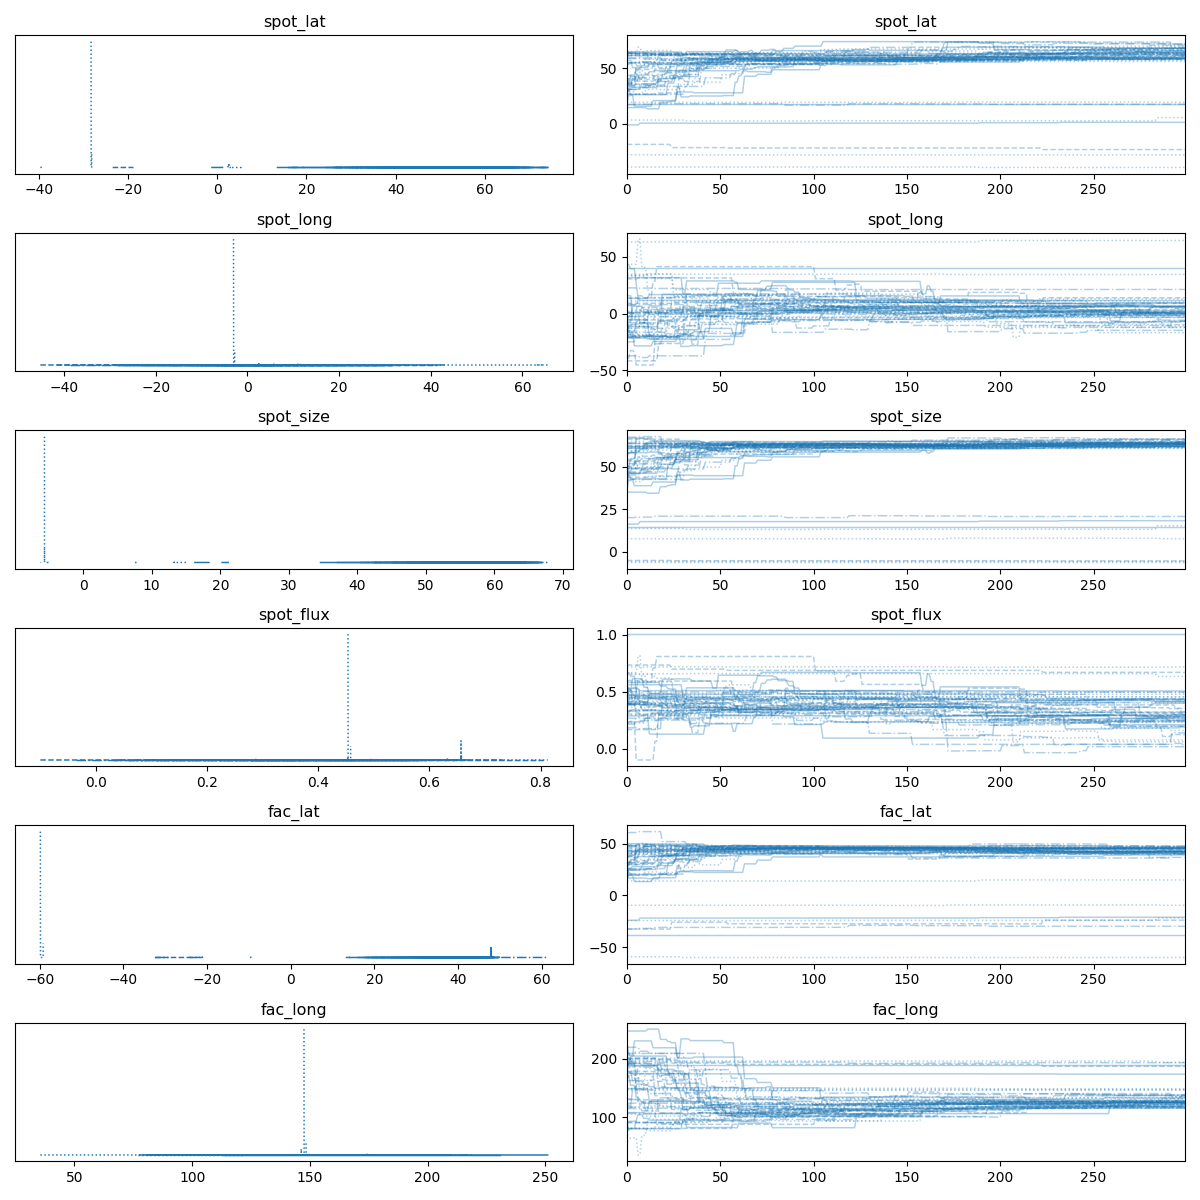
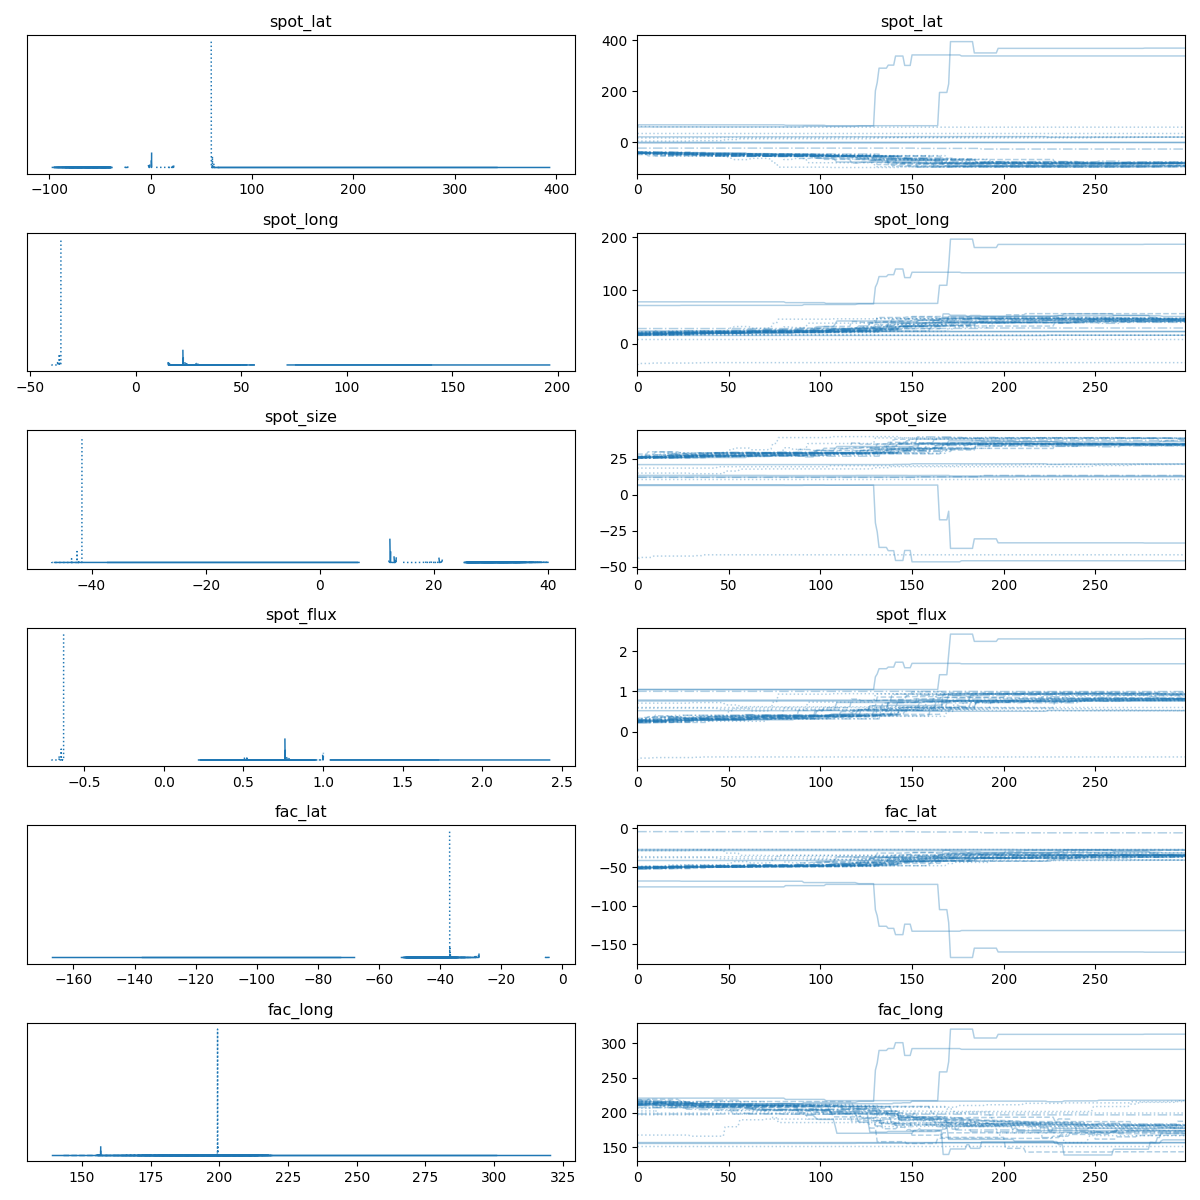
Updated SAJAX priors

diff --git a/sajax/scripts/affinv.py b/sajax/scripts/affinv.py
@@ -43,22 +43,25 @@ AFFINV_OUTPUT_DIR = OUTPUT_DIR / "affinv"
 
 NUM_BURNIN = 200   # Scaled down with fewer total steps
 NUM_SAMPLES = 500
-NUM_WALKERS = 50
+NUM_WALKERS = 34
 NDIM = len(PARAM_NAMES)
 
 def get_initial_coords(key, num_walkers):
     """
-    Initialize walkers uniformly within a tight-ish region of the prior 
-    to avoid starting in zero-probability regions.
+    Initialize walkers near the ground truth.
+    Uniform-prior parameters: sample within ±10% of prior range around ground truth.
+    LogNormal/Beta parameters: sample from a tight version of their prior (σ=0.1 in
+    log-space for LogNormal; Uniform(0, 0.1) for eccentricity).
     """
-    # Create an array of mins and maxes based on your model's priors
+    key, base_key, k_prot, k_rp, k_sma, k_ecc = jax.random.split(key, 6)
+
     mins = np.array([
         LAT_MIN, LONG_MIN, SIZE_MIN, FLUX_MIN,          # Spot
         LAT_MIN, LONG_MIN, SIZE_MIN, FLUX_MIN,          # Facula
-        P_ROT_MIN,                                      # P_rot
-        PLANET_RADIUS_MIN, SEMI_MAJOR_MIN, INCLINATION_MIN, 
-        ECCENTRICITY_MIN, ARG_PERIAPSIS_MIN, P_ORB_MIN, # Planet
-        LDC_U1_MIN, LDC_U2_MIN                           # LDC
+        P_ROT_MIN,                                      # p_rot       (idx 8)
+        PLANET_RADIUS_MIN, SEMI_MAJOR_MIN, INCLINATION_MIN,
+        ECCENTRICITY_MIN, ARG_PERIAPSIS_MIN, P_ORB_MIN, # Planet (idx 9-14)
+        LDC_U1_MIN, LDC_U2_MIN                          # LDC
     ])
     maxes = np.array([
         LAT_MAX, LONG_MAX, SIZE_MAX, FLUX_MAX,
@@ -69,15 +72,27 @@ def get_initial_coords(key, num_walkers):
         LDC_U1_MAX, LDC_U2_MAX
     ])
 
-    # Narrow the range slightly so we don't start exactly on a hard boundary
     center = np.array([GROUND_TRUTH[p] for p in PARAM_NAMES])
-    width = (maxes - mins) * 0.1 
-    
-    # Randomize around ground truth or within bounds
+    width = (maxes - mins) * 0.1
     low = np.maximum(mins, center - width)
     high = np.minimum(maxes, center + width)
-    
-    return jax.random.uniform(key, shape=(num_walkers, NDIM), minval=low, maxval=high)
+    coords = jax.random.uniform(base_key, shape=(num_walkers, NDIM), minval=low, maxval=high)
+
+    # Override the four parameters whose priors changed from Uniform
+    # idx 8  — p_rot:          LogNormal(ln(true), 1.0)
+    # idx 9  — planet_radius:  LogNormal(ln(true), 0.5)
+    # idx 10 — semimajor_axis: LogNormal(ln(5.0),  0.5)
+    # idx 12 — eccentricity:   Beta(2, 10)
+    coords = coords.at[:, 8].set(
+        jnp.exp(jax.random.normal(k_prot, (num_walkers,)) * 0.1 + jnp.log(center[8])))
+    coords = coords.at[:, 9].set(
+        jnp.exp(jax.random.normal(k_rp,   (num_walkers,)) * 0.1 + jnp.log(center[9])))
+    coords = coords.at[:, 10].set(
+        jnp.exp(jax.random.normal(k_sma,  (num_walkers,)) * 0.1 + jnp.log(5.0)))
+    coords = coords.at[:, 12].set(
+        jax.random.uniform(k_ecc, (num_walkers,), minval=0.0, maxval=0.1))
+
+    return coords
 
 def main(seed=0, save_outputs=True):
     init_key, state_key, sample_key = jax.random.split(jax.random.PRNGKey(seed), 3)

diff --git a/sajax/scripts/rwmh.py b/sajax/scripts/rwmh.py
@@ -67,14 +67,34 @@ PRIOR_MAXS = np.array([
 
 def get_initial_positions(key: jax.Array, num_chains: int) -> jnp.ndarray:
     """
-    Initialise chains within ±10 % of the prior range around the ground truth,
-    clipped to stay strictly inside the prior bounds.
+    Initialise chains near the ground truth.
+    Uniform-prior parameters: sample within ±10% of prior range around ground truth.
+    LogNormal/Beta parameters: sample from a tight version of their prior (σ=0.1 in
+    log-space for LogNormal; Uniform(0, 0.1) for eccentricity).
     """
+    key, base_key, k_prot, k_rp, k_sma, k_ecc = jax.random.split(key, 6)
+
     center = np.array([GROUND_TRUTH[p] for p in PARAM_NAMES])
     width = (PRIOR_MAXS - PRIOR_MINS) * 0.10
     low = np.maximum(PRIOR_MINS, center - width)
     high = np.minimum(PRIOR_MAXS, center + width)
-    return jax.random.uniform(key, shape=(num_chains, NDIM), minval=low, maxval=high)
+    positions = jax.random.uniform(base_key, shape=(num_chains, NDIM), minval=low, maxval=high)
+
+    # Override the four parameters whose priors changed from Uniform
+    # idx 8  — p_rot:          LogNormal(ln(true), 1.0)
+    # idx 9  — planet_radius:  LogNormal(ln(true), 0.5)
+    # idx 10 — semimajor_axis: LogNormal(ln(5.0),  0.5)
+    # idx 12 — eccentricity:   Beta(2, 10)
+    positions = positions.at[:, 8].set(
+        jnp.exp(jax.random.normal(k_prot, (num_chains,)) * 0.1 + jnp.log(center[8])))
+    positions = positions.at[:, 9].set(
+        jnp.exp(jax.random.normal(k_rp,   (num_chains,)) * 0.1 + jnp.log(center[9])))
+    positions = positions.at[:, 10].set(
+        jnp.exp(jax.random.normal(k_sma,  (num_chains,)) * 0.1 + jnp.log(5.0)))
+    positions = positions.at[:, 12].set(
+        jax.random.uniform(k_ecc, (num_chains,), minval=0.0, maxval=0.1))
+
+    return positions
 
 
 def inference_loop(rng_key, kernel, initial_state, num_samples):

diff --git a/sajax/src/model.py b/sajax/src/model.py
@@ -273,15 +273,15 @@ def sajax_model(y_obs: jnp.ndarray = jnp.array(OBS_LIGHT_CURVE), model_dict: dic
     fac_size = numpyro.sample("fac_size", dist.Uniform(SIZE_MIN, SIZE_MAX))
     fac_flux = numpyro.sample("fac_flux", dist.Uniform(FLUX_MIN, FLUX_MAX))
 
-    P_rot = numpyro.sample("p_rot", dist.Uniform(P_ROT_MIN, P_ROT_MAX))
+    P_rot = numpyro.sample("p_rot", dist.LogNormal(jnp.log(TRUE_P_ROT), 1.0))
     LDC_u1 = numpyro.sample("ldc_u1", dist.Uniform(LDC_U1_MIN, LDC_U1_MAX))
     LDC_u2 = numpyro.sample("ldc_u2", dist.Uniform(LDC_U2_MIN, LDC_U2_MAX))
 
     # Planet parameters
-    planet_radius = numpyro.sample("planet_radius", dist.Uniform(PLANET_RADIUS_MIN, PLANET_RADIUS_MAX))
-    semimajor_axis = numpyro.sample("semimajor_axis", dist.Uniform(SEMI_MAJOR_MIN, SEMI_MAJOR_MAX))
+    planet_radius = numpyro.sample("planet_radius", dist.LogNormal(jnp.log(TRUE_PLANET_RADIUS), 0.5))
+    semimajor_axis = numpyro.sample("semimajor_axis", dist.LogNormal(jnp.log(5.0), 0.5))
     inclination = numpyro.sample("inclination", dist.Uniform(INCLINATION_MIN, INCLINATION_MAX))
-    eccentricity = numpyro.sample("eccentricity", dist.Uniform(ECCENTRICITY_MIN, ECCENTRICITY_MAX))
+    eccentricity = numpyro.sample("eccentricity", dist.Beta(2, 10))
     arg_periapsis = numpyro.sample("arg_periapsis", dist.Uniform(ARG_PERIAPSIS_MIN, ARG_PERIAPSIS_MAX))
     P_orb = numpyro.sample("P_orb", dist.Normal(TRUE_P_ORB, 0.01))
 